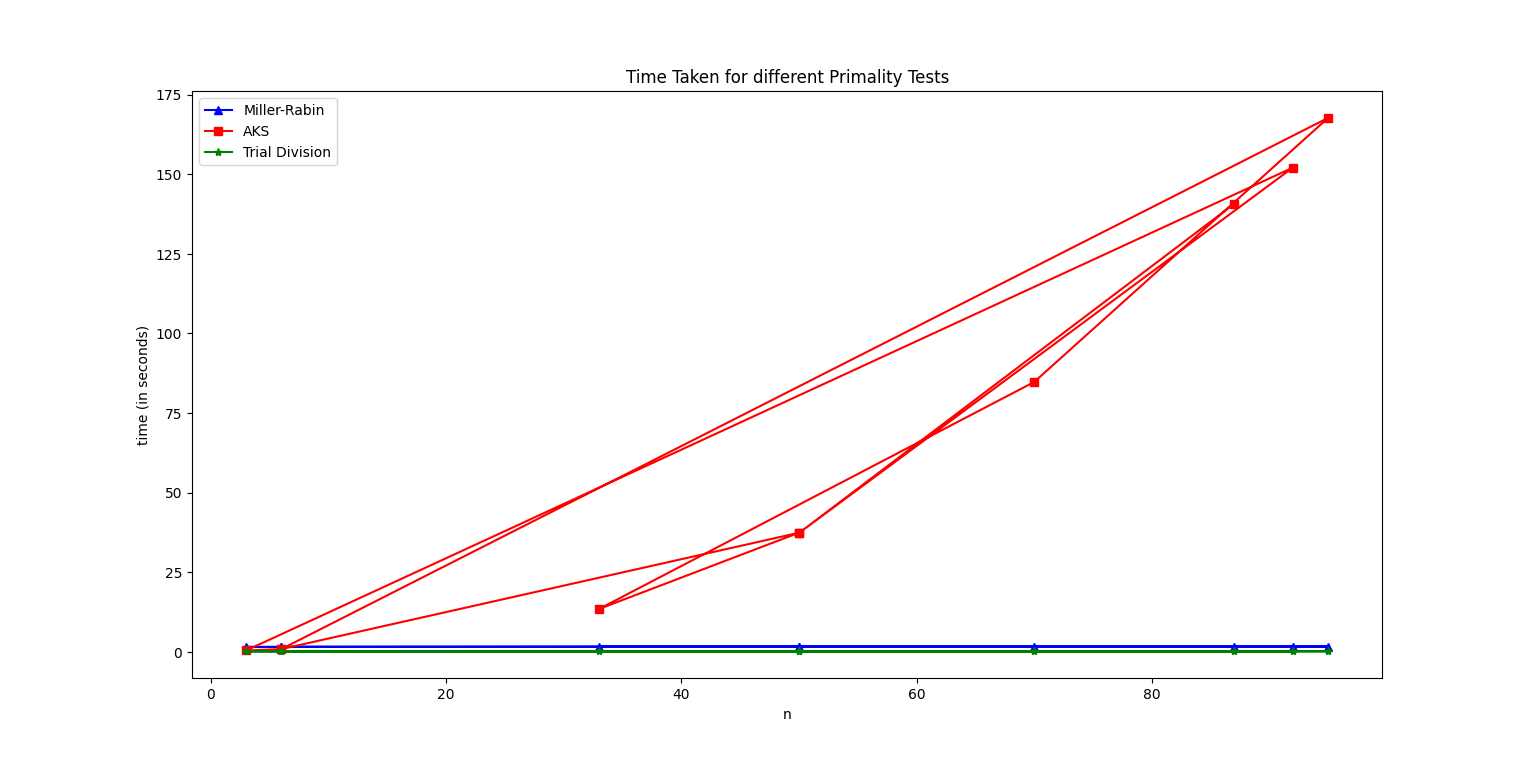
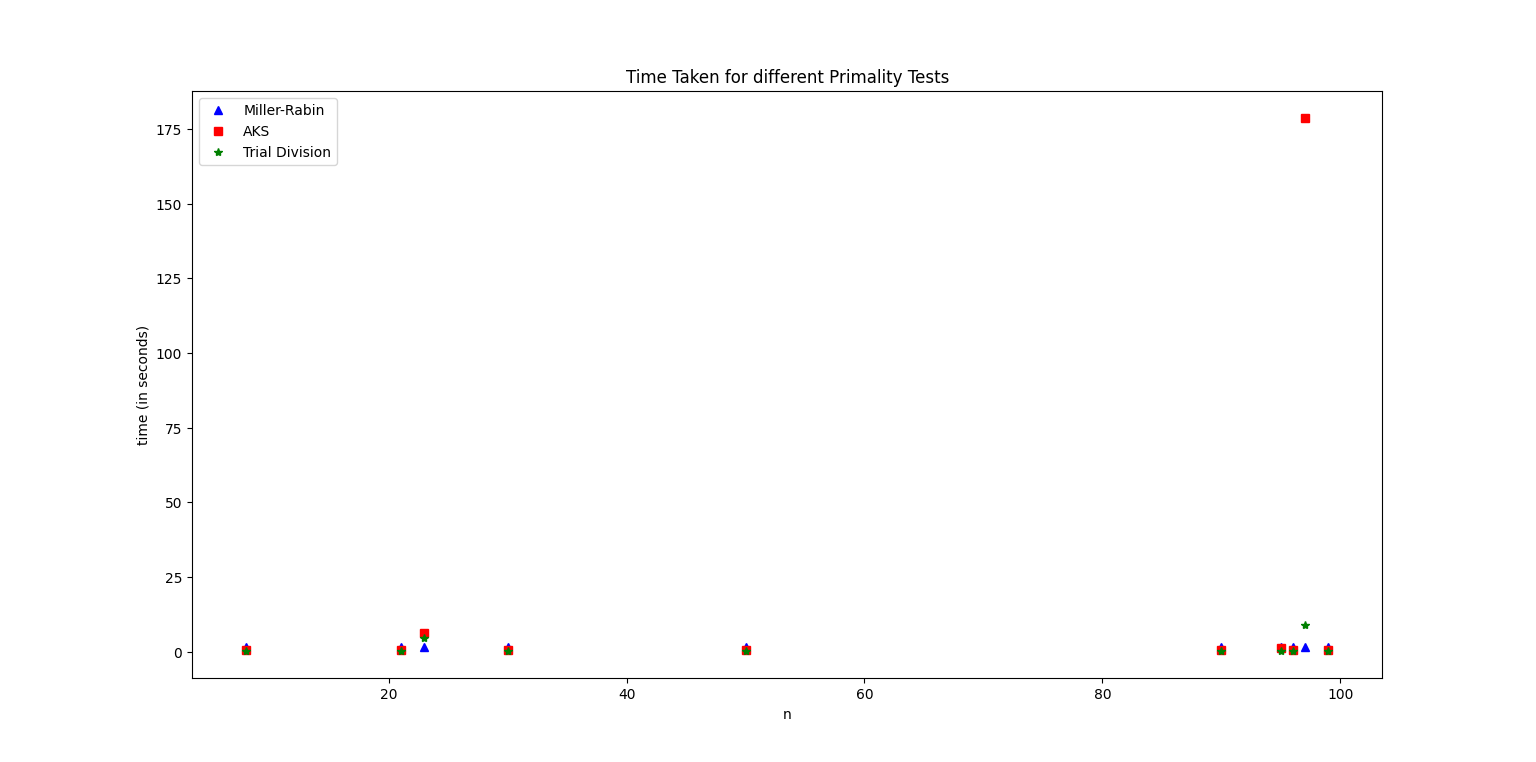
small changes

diff --git a/time_tests.py b/time_tests.py
@@ -9,9 +9,11 @@ import matplotlib.pyplot as plt
 
 test_numbers = []
 
-for i in range(10,20):
+for i in range(10,15):
     rnd = random.random()
-    rnd = math.ceil(rnd*pow(10,math.ceil(i/10)))
+    rnd = math.ceil(rnd*pow(10,i))
+    if rnd%2==0:
+        rnd +=1
     test_numbers.append(rnd)
 
 miller_rabin_times = []
@@ -24,7 +26,7 @@ for i in test_numbers:
     print(i)
 
 plt.plot(test_numbers,miller_rabin_times,'^b')
-plt.plot(test_numbers,aks_times,'s-r')
+plt.plot(test_numbers,aks_times,'sr')
 plt.plot(test_numbers,trial_division_wheel_factorization_times,'*g')
 plt.xlabel('n')
 plt.ylabel('time (in seconds)')

diff --git a/tests/miller_rabin_test.py b/tests/miller_rabin_test.py
@@ -39,4 +39,5 @@ def miller_rabin(n):
             for a in witnesses[dict_key]:
                 if pow(a,d,n)!=1:
                     is_prime=False
+                    break
     return(is_prime)

diff --git a/tests/trial_division_wheel_factorization.py b/tests/trial_division_wheel_factorization.py
@@ -17,4 +17,5 @@ def trial_division_wheel_factorization(n):
         for i in checks:
             if n%i==0:
                 is_prime = False
+                break
     return(is_prime)

diff --git a/tests/aks_test.py b/tests/aks_test.py
@@ -8,4 +8,5 @@ def aks_test(n):
         coeff = math.comb(n,r)
         if coeff%n!=0:
             is_prime=False
+            break
     return is_prime

diff --git a/README.md b/README.md
@@ -7,35 +7,52 @@ To implement various primality tests and compare speeds of various algorithms.
 
 We divide n by numbers \< n and if it is divisible by any number, n is not prime.
 To reduce the number of numbers we need to divide by and check, we use two modifications.
-All unique factors of n are \< $\sqrt{n} - this is trivial.
-Now to further reduce the search space, we use wheel factorization. If a number is not divisible by 2,3 and 5 then if it is represented by $30k+i$ where $i=1,2,3,....29$, i will not be divisible by 2,3, and 5 which rules out quite a few values of i.
-We end up with the only allowed i = 1, 7, 11, 13, 17, 19, 23, 29. Thus we only need to check for numbers that are $n (mod 30) =i$. This greatly reduces our state space and helps in improving the speed of the algorithm.
+All unique factors of n are \< $'\sqrt{n} - this is trivial.
+Now to further reduce the search space, we use wheel factorization. If a number is not divisible by 2,3 and 5 then if it is represented by $'30k+i'$ where $'i=1,2,3,....29'$, i will not be divisible by 2,3, and 5 which rules out quite a few values of i.
+We end up with the only allowed i = 1, 7, 11, 13, 17, 19, 23, 29. Thus we only need to check for numbers that are $'n (mod 30) =i'$. This greatly reduces our state space and helps in improving the speed of the algorithm.
 
 # 2. Miller Rabin Test
 
-We can write the candidate, n as $2^r * d+1$. We then another number $a < n$ and verify if $a^d (mod n) = 1$. If this holds true for the range 2 -> min(n-2, floor(2* (ln(n)^2))). This can get unweildy but for certain limits of n, smaller sets of witnesses are enough to check for primality.
+We can write the candidate, n as $'2^r * d+1$. We then another number $'a < n'$ and verify if $'a^d (mod n) = 1'$. If this holds true for the range 2 -> min(n-2, floor(2* (ln(n)^2))). This can get unweildy but for certain limits of n, smaller sets of witnesses are enough to check for primality.
 
 if n < 2,047, it is enough to test a = 2;
+
 if n < 1,373,653, it is enough to test a = 2 and 3;
+
 if n < 9,080,191, it is enough to test a = 31 and 73;
+
 if n < 25,326,001, it is enough to test a = 2, 3, and 5;
+
 if n < 3,215,031,751, it is enough to test a = 2, 3, 5, and 7;
+
 if n < 4,759,123,141, it is enough to test a = 2, 7, and 61;
+
 if n < 1,122,004,669,633, it is enough to test a = 2, 13, 23, and 1662803;
+
 if n < 2,152,302,898,747, it is enough to test a = 2, 3, 5, 7, and 11;
+
 if n < 3,474,749,660,383, it is enough to test a = 2, 3, 5, 7, 11, and 13;
+
 if n < 341,550,071,728,321, it is enough to test a = 2, 3, 5, 7, 11, 13, and 17.
+
 if n < 3,825,123,056,546,413,051, it is enough to test a = 2, 3, 5, 7, 11, 13, 17, 19, and 23.
+
 if n < 18,446,744,073,709,551,616 = 2^64, it is enough to test a = 2, 3, 5, 7, 11, 13, 17, 19, 23, 29, 31, and 37.
+
 if n < 318,665,857,834,031,151,167,461, it is enough to test a = 2, 3, 5, 7, 11, 13, 17, 19, 23, 29, 31, and 37.
+
 if n < 3,317,044,064,679,887,385,961,981, it is enough to test a = 2, 3, 5, 7, 11, 13, 17, 19, 23, 29, 31, 37, and 41.
 
 # 3. AKS Test
 
-The AKS Test checks the coefficients of $(x-1)^n - (x^n - 1)$. If all the coefficients are divisible by n, then n is prime.
+The AKS Test checks the coefficients of $'(x-1)^n - (x^n - 1)'$. If all the coefficients are divisible by n, then n is prime.
 
 # Results
 
-We see that the fastest is the Miller-Rabin test.
+![Time Taken for Primality Tests for all 3 Tests with small numbers](img/initial_test_all_three.png)
 
-![Time Taken for Primality Tests](img/initial_test_all_three.png)
+It's not abundantly clear which algorithm is faster so let's try with larger n.
+
+![Time Taken for Primality Tests for all 3 tests with larger n](img/)
+
+
